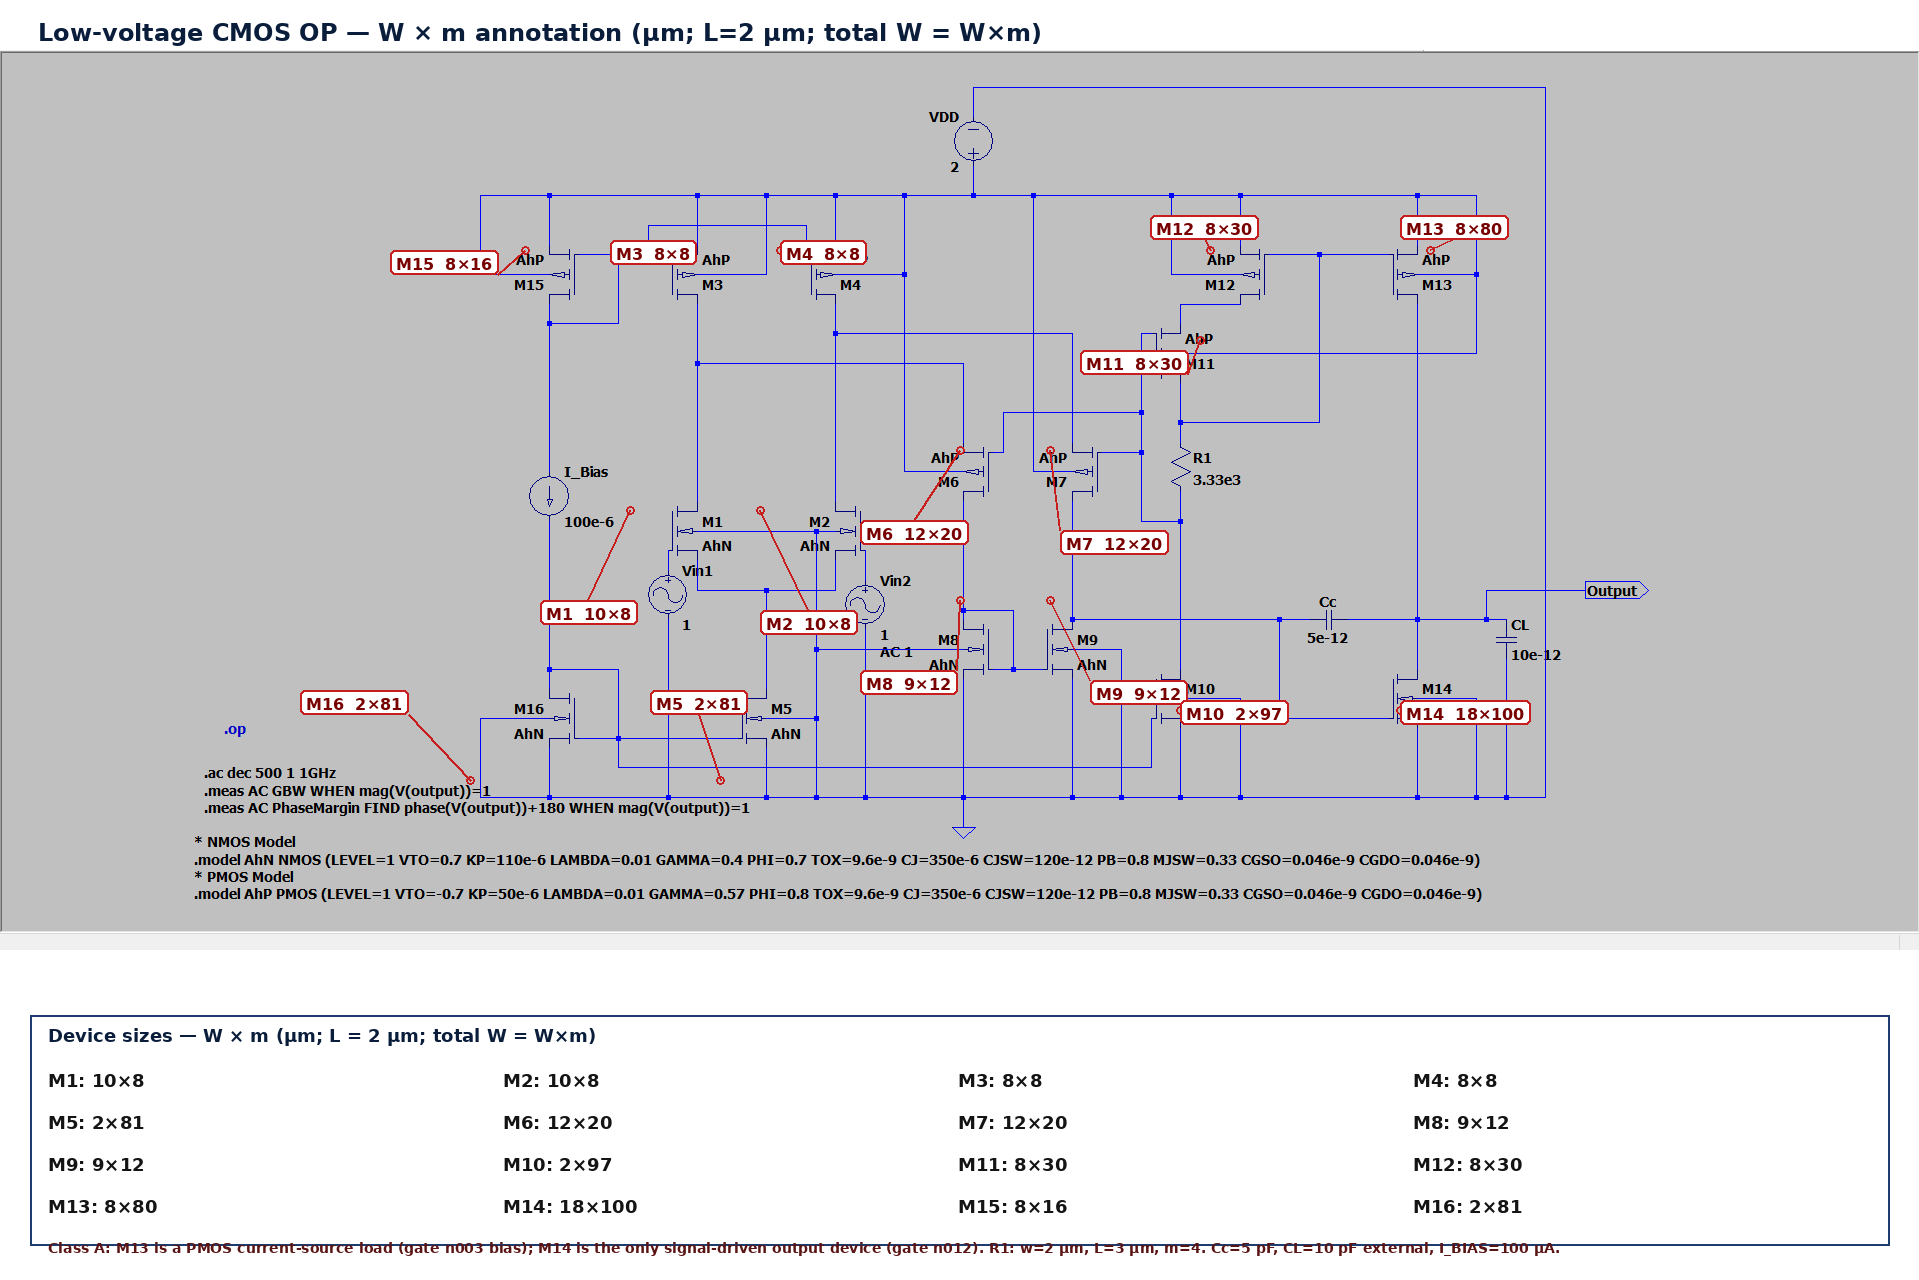
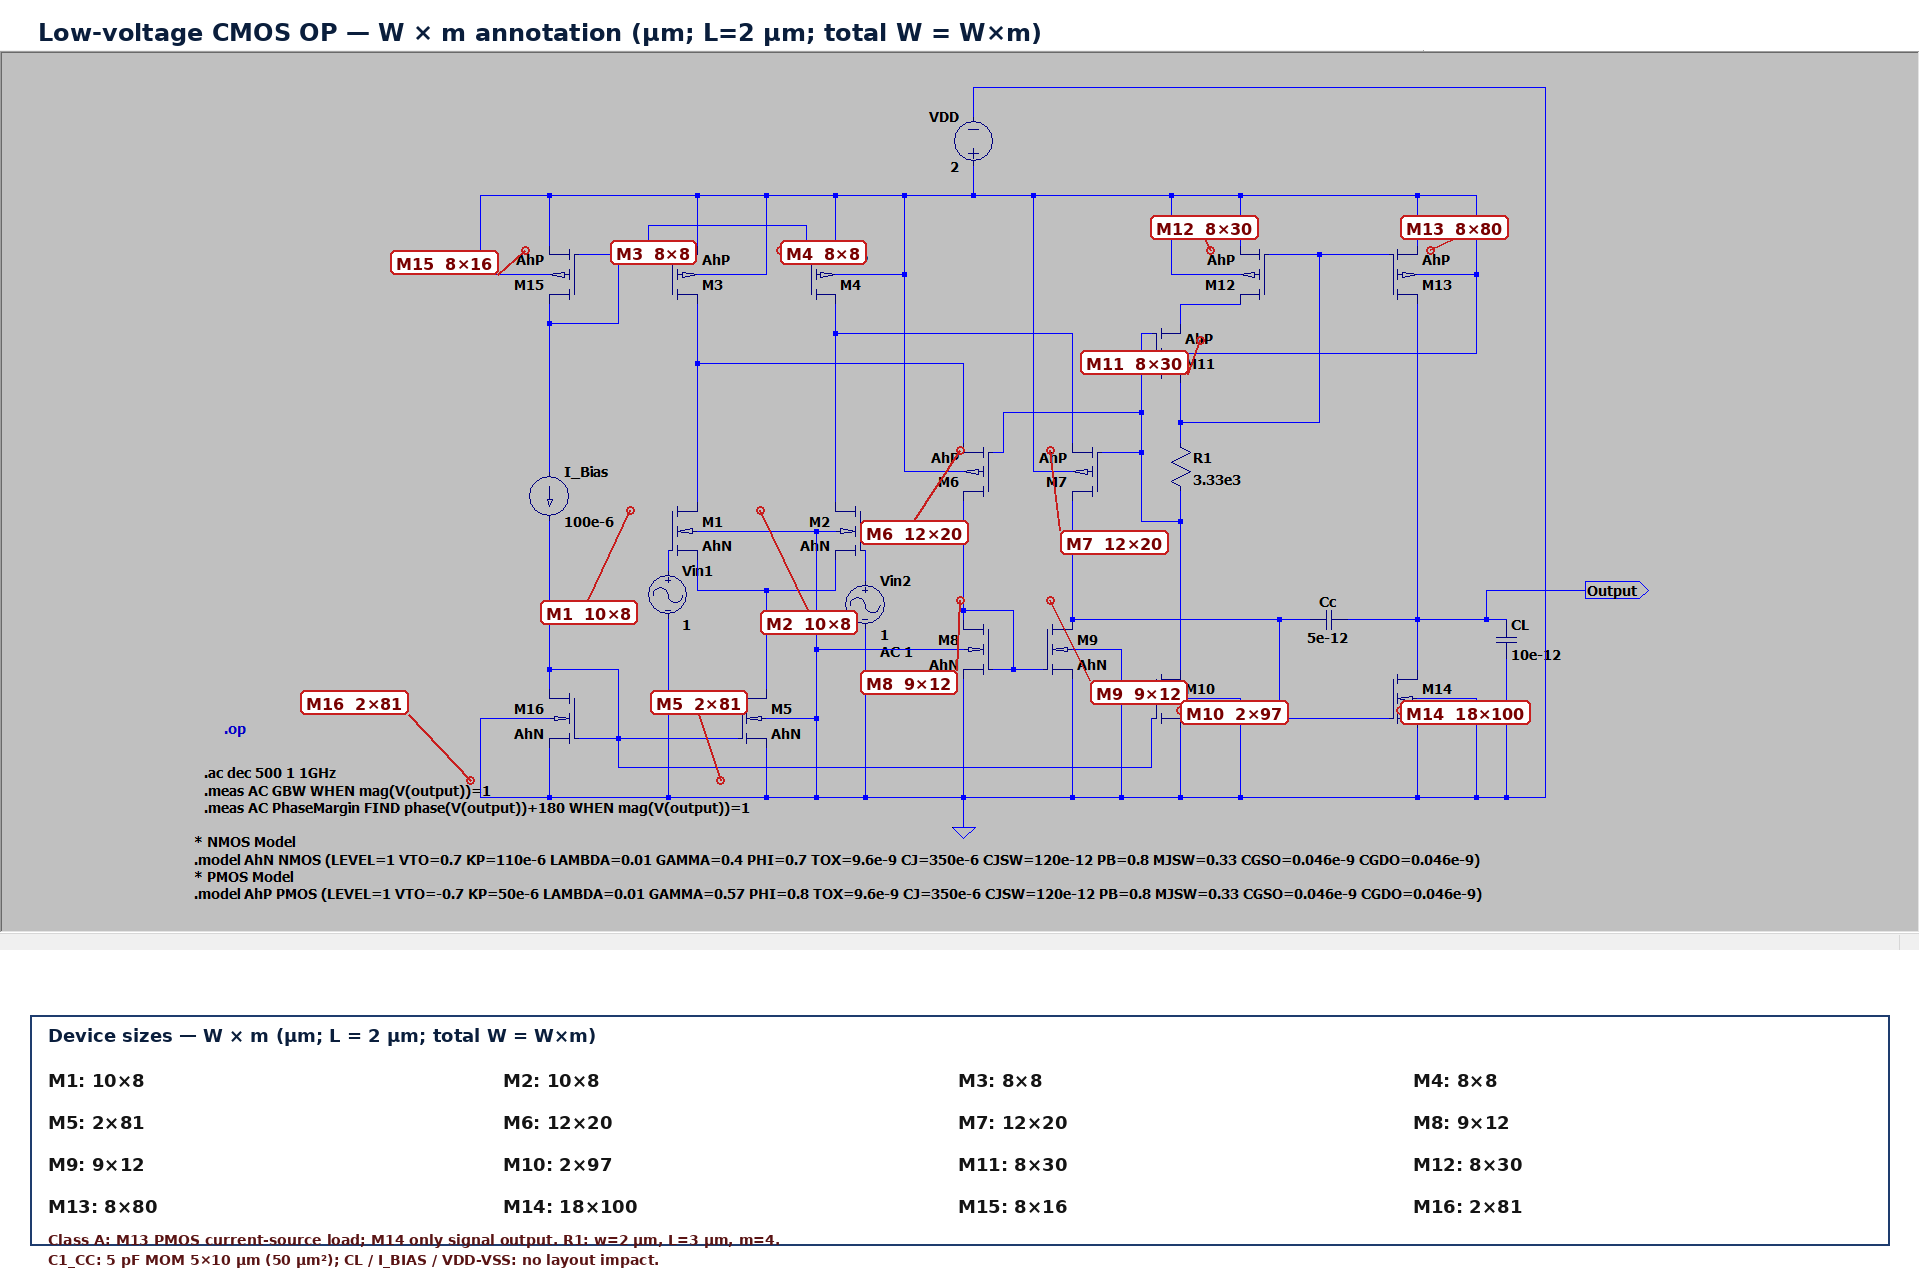
feat: use fixed 5x10 MOM geometry for C1_CC

Changed region(s): [[0.0307, 0.9688, 0.5227, 1.0], [0.6456, 0.9688, 0.7994, 1.0], [0.5842, 0.9688, 0.6149, 1.0]]

diff --git a/a2l/area.py b/a2l/area.py
@@ -23,6 +23,7 @@ from typing import Any
 from .netlist import Device, Netlist
 from .roles import RoleSpec, get_role
 from .rules import Rules
+from .units import parse_length_um
 
 
 @dataclass
@@ -324,6 +325,21 @@ def _estimate_device(
     )
 
 
+def _float_param(raw: str | None) -> float:
+    if raw is None:
+        return 0.0
+    try:
+        return float(raw)
+    except ValueError:
+        return 0.0
+
+
+def _length_param(raw: str | None) -> float:
+    if raw is None:
+        return 0.0
+    return parse_length_um(raw, what="cap layout geometry")
+
+
 def _estimate_cap(
     device: Device,
     rules: Rules,
@@ -335,21 +351,44 @@ def _estimate_cap(
     if c_pf <= 0:
         raise ValueError("capacitance must be > 0")
 
-    density = float(rules.cap("density_ff_per_um2", 1.5))
-    if density <= 0:
-        raise ValueError("cap.density_ff_per_um2 must be > 0")
+    # A target may pin a capacitor to an explicit layout block (for example a
+    # 5 x 10 um MOM cap).  In that case the density rule is not used: the
+    # geometry is the area, and the block is assumed to include its own routing.
+    fixed_area = _float_param(device.params.get("area_core_um2"))
+    fixed_w = _length_param(device.params.get("w_layout_um"))
+    fixed_h = _length_param(device.params.get("h_layout_um"))
+    if fixed_area > 0 or (fixed_w > 0 and fixed_h > 0):
+        if fixed_area <= 0:
+            fixed_area = fixed_w * fixed_h
+        if fixed_w <= 0:
+            fixed_w = math.sqrt(fixed_area)
+        if fixed_h <= 0:
+            fixed_h = fixed_area / fixed_w
+        area = fixed_area
+        w_layout = fixed_w
+        h_layout = fixed_h
+        routing_area = 0.0
+        total_area = area
+        fixed_note = "fixed layout geometry; density rule bypassed"
+    else:
+        density = float(rules.cap("density_ff_per_um2", 1.5))
+        if density <= 0:
+            raise ValueError("cap.density_ff_per_um2 must be > 0")
 
-    aspect = float(rules.cap("aspect_ratio", 1.5))
-    area = c_pf * 1000.0 / density  # 1 pF = 1000 fF
-    side = math.sqrt(area / max(aspect, 0.1))
-    w_layout = side * max(aspect, 0.1)
-    h_layout = side
+        aspect = float(rules.cap("aspect_ratio", 1.5))
+        area = c_pf * 1000.0 / density  # 1 pF = 1000 fF
+        side = math.sqrt(area / max(aspect, 0.1))
+        w_layout = side * max(aspect, 0.1)
+        h_layout = side
 
-    routing_overhead = float(rules.cap("routing_overhead", 0.10))
-    routing_area = area * routing_overhead
-    total_area = area + routing_area
+        routing_overhead = float(rules.cap("routing_overhead", 0.10))
+        routing_area = area * routing_overhead
+        total_area = area + routing_area
+        fixed_note = ""
 
-    if spec.id == "compensation":
+    if fixed_note:
+        note = f"{fixed_note}; compensation cap"
+    elif spec.id == "compensation":
         note = "compensation cap; keep away from noisy nodes"
     elif spec.id == "decap":
         note = "decoupling cap; place near supply pins"

diff --git a/tests/test_classa.py b/tests/test_classa.py
@@ -35,6 +35,15 @@ class ClassAReviewTests(unittest.TestCase):
         self.assertEqual(devices["M8"].params["w"], "9u")
         self.assertEqual(devices["M8"].params["m"], "12")
 
+    def test_fixed_mom_cap_geometry(self):
+        netlist = parse_file(SIZED)
+        report = estimate_area(netlist, self.rules)
+        cap = next(d for d in report.devices if d.name == "C1_CC")
+        self.assertAlmostEqual(cap.area_core_um2, 50.0)
+        self.assertAlmostEqual(cap.area_total_um2, 50.0)
+        self.assertAlmostEqual(cap.w_layout_um, 5.0)
+        self.assertAlmostEqual(cap.h_layout_um, 10.0)
+
 
 if __name__ == "__main__":
     unittest.main()

diff --git a/examples/classa_opamp/README.md b/examples/classa_opamp/README.md
@@ -59,9 +59,12 @@ The key check is simple: **M13's gate has no signal path**; it is tied to
 
 ## Current netlist
 
-- 16 MOS + 1 compensation cap (`C1_CC = 5 pF`).
-- `I_BIAS = 100 µA`, `R1 = 3.33 kΩ`; both currently ignored by the parser.
-- External `CL = 10 pF` is documented but not in the core netlist.
+- 16 MOS + 1 compensation cap.
+- `C1_CC = 5 pF` MOM, fixed **5 × 10 µm = 50 µm²** layout block; see [cap-mom-5x10.png](cap-mom-5x10.png).
+- `R1 = 3.33 kΩ`, `w=2 µm`, `L=3 µm`, `m=4`; the parser currently ignores R.
+- `I_BIAS = 100 µA` is an ideal source: **no layout impact**.
+- External `CL = 10 pF` is a testbench load: **no layout impact**.
+- `VDD/VSS = 2 V / 0 V` are supplies: **no layout impact**.
 
 ```bash
 python3 -m a2l analyze examples/classa_opamp/opamp.sp
@@ -74,7 +77,7 @@ python3 -m a2l analyze examples/classa_opamp/opamp.sized.sp
 
 ## Documents
 
-- [sizing.md](sizing.md): original W/L, m=1 check, and matching-group ratio analysis.
+- [sizing.md](sizing.md): unit W, m conversion, matching-group ratios, C1_CC fixed MOM block.
 
 - [structure.md](structure.md): node-by-node explanation, corrected to class A.
 - [textbook.md](textbook.md): what Allen & Holberg say about class AB, and why

diff --git a/examples/classa_opamp/sizing.md b/examples/classa_opamp/sizing.md
@@ -116,12 +116,21 @@ M9  M10 M11 M12 M13 M14 M15 M16
 
 | 器件 | 值/尺寸 | 说明 |
 | --- | --- | --- |
-| C1_CC | 5 pF | 补偿电容 |
-| CL | 10 pF | 外部负载，不计入 core |
-| I_BIAS | 100 µA | 理想偏置电流源 |
-| VDD / VSS | 2 V / 0 V | 电源 |
+| C1_CC | 5 pF | MOM，固定 **5 µm × 10 µm = 50 µm²** 方块 |
+| CL | 10 pF | 外部负载，**对版图没有影响** |
+| I_BIAS | 100 µA | 理想偏置电流源，**对版图没有影响** |
+| VDD / VSS | 2 V / 0 V | 电源，**对版图没有影响** |
 
 R1 已经给出：`w=2 µm, L=3 µm, m=4`。
+
+C1_CC 在网表里固定为：
+
+```text
+C1_CC vout n012 5p area_core_um2=50 w_layout_um=5u h_layout_um=10u
+```
+
+这是 **固定几何覆盖**：直接采用 5 × 10 µm 的 MOM block（50 µm²），
+不再用 2 fF/µm² 的 cap density 规则去反算面积。
 
 ## 结论
 

diff --git a/docs/03-area-model.md b/docs/03-area-model.md
@@ -157,6 +157,16 @@ area = C / cap_density
 
 当前 `C1_CC=3 pF` 的 core 面积是 1500 µm²（3 pF ÷ 2 fF/µm²），加 routing overhead 后约 1650 µm²；这是 educational MOSCAP 结果，**不能当作 SKY130 签核面积**。
 
+如果实例已经有明确的版图几何，可以用**固定几何覆盖**：
+
+```spice
+C1_CC vout n012 5p area_core_um2=50 w_layout_um=5u h_layout_um=10u
+```
+
+此时直接采用 `area_core_um2` / `w_layout_um` / `h_layout_um`，不再用
+`cap_density` 反算；`area_total_um2` 等于该块面积，默认这个块已经包含
+自己的 routing。class-A 参考电路的 5 pF MOM 就是固定 **5 × 10 µm = 50 µm²**。
+
 ### 3.3 匹配组
 
 ```text
